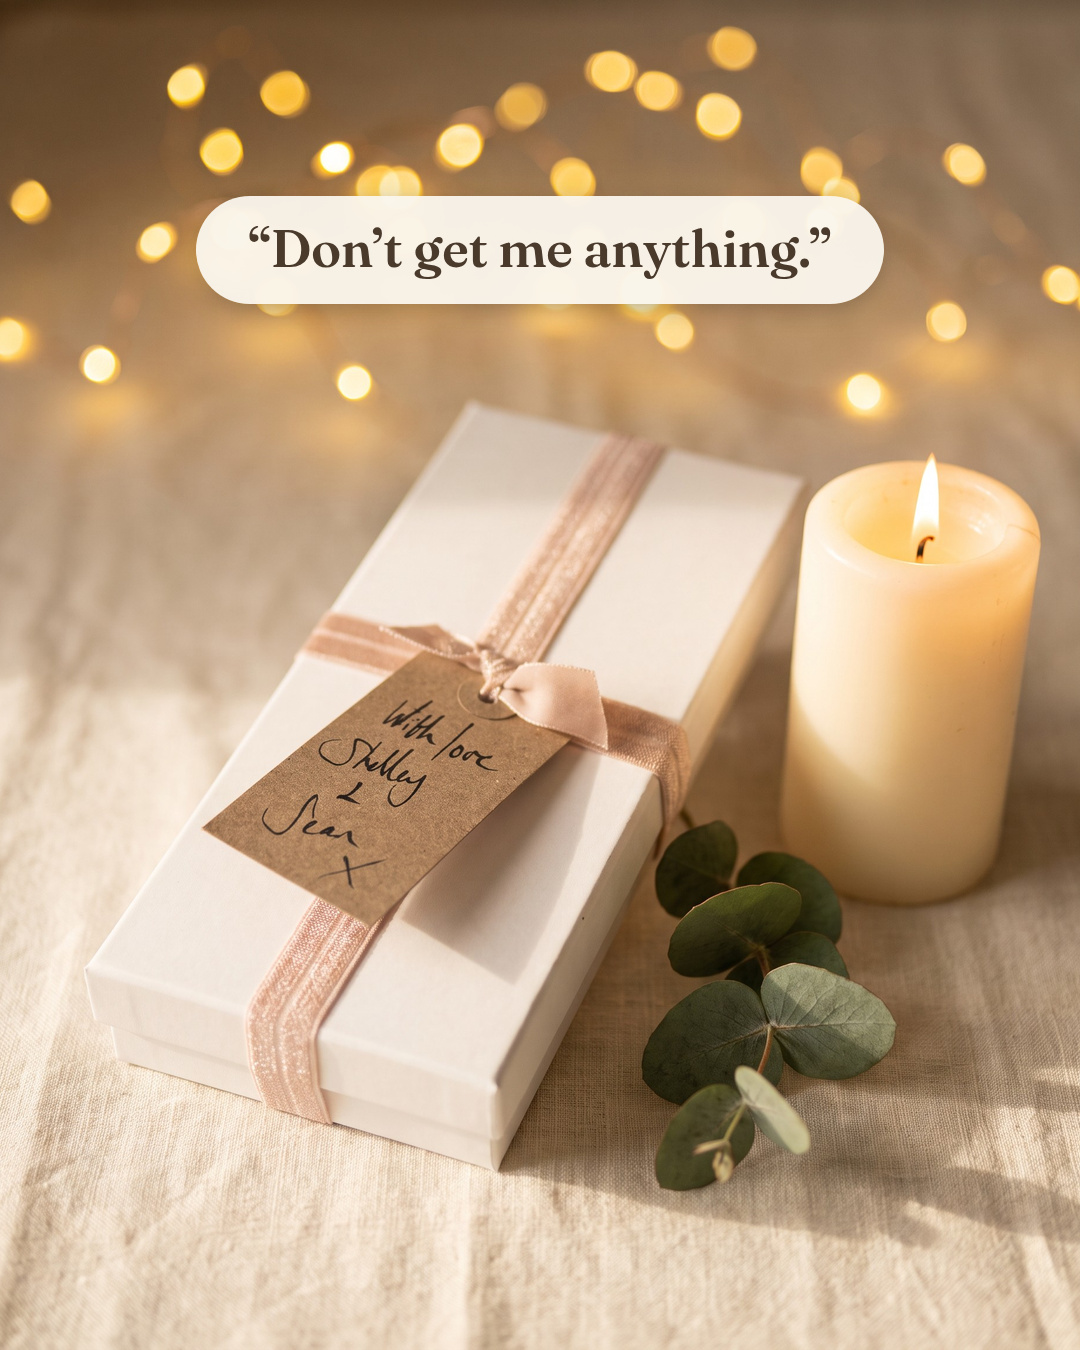
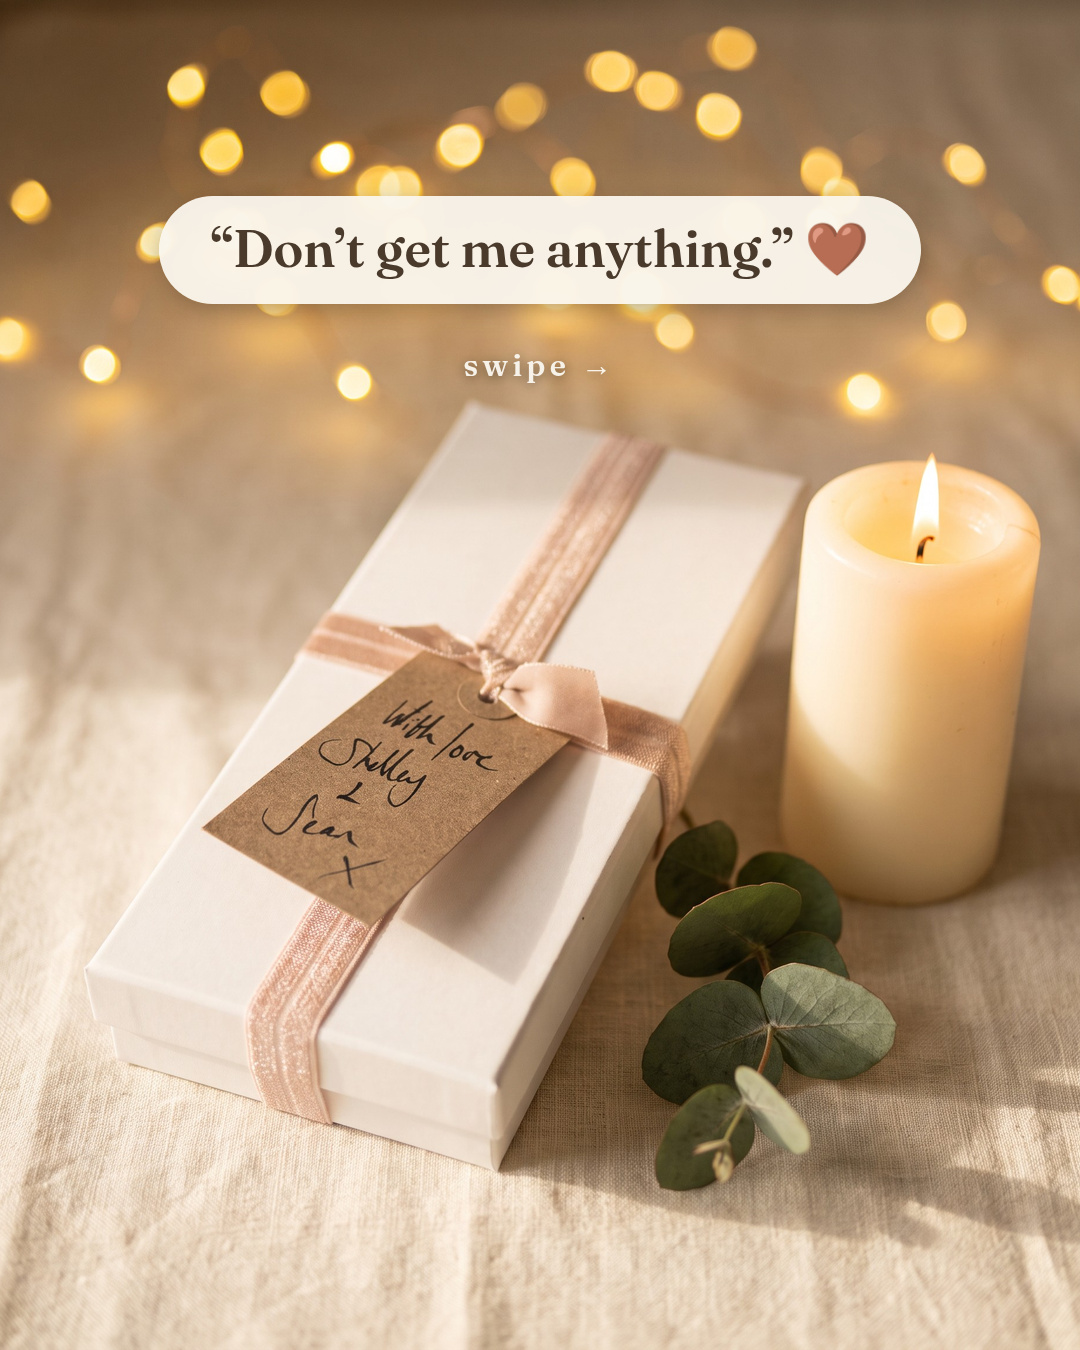
Diffuser carousel: option A hooks, emoji, swipe cue
Max rejected the previous hooks as AI slop and picked option A. The old middle
beat was filler and the payoff never resolved who 'their' was; the new run
lands the joke on the turn instead: nobody means 'don't get me anything'.

Emoji chosen on palette, not on meaning. The gift emoji was tried first and its
red and primary yellow fought the cream-and-candlelight scene — it read as
cheap, the opposite of the brief. The white heart was rejected too, being
near-invisible on a cream pill. What shipped sits inside the photograph's own
colours: brown heart against the type, a eucalyptus sprig echoing the real one
lying in every frame, sparkles against the bokeh.

Noted in-source that Apple Color Emoji is licensed to Apple hardware and is not
on this machine, so these render in Noto. Symbol emoji were used precisely
because that is where the two sets barely diverge — faces are where a
substituted glyph looks obviously wrong to an iPhone audience.

Slide 3 drops to 46px so its pill stops running edge to edge, and slide 1 gains
a swipe cue, since the reveal is on slide 3 and a carousel that does not ask
for the swipe loses people on the first frame.

Claude-Session: https://claude.ai/code/session_011ctfZLWbP19LaC5pAkHDsM

Changed region(s): [[0.1528, 0.1244, 0.8556, 0.2489], [0.4278, 0.2489, 0.5194, 0.28]]

diff --git a/projects/diffuser/reveal-carousel/carousel-4x5/build-carousel.py b/projects/diffuser/reveal-carousel/carousel-4x5/build-carousel.py
@@ -1,14 +1,16 @@
-"""Diffuser reveal — a proper Instagram carousel.
+"""Diffuser carousel v2 — option A, with emoji and a swipe cue.
 
-Three slides at 1080x1350 (4:5, the tallest ratio the feed allows, so it takes
-the most screen). The swipe is the reveal: closed box -> opened -> the bottle
-standing. Match Law, bought without a video budget.
+Max picked A and asked for iOS emoji so it reads like a proper artist made it.
 
-The hook treatment is Max's own pick from a five-way comparison: a cream pill
-in Fraunces, which is also exactly the shape Instagram's own text tool makes,
-so it reads as native rather than as a designer's overlay.
+Apple Color Emoji is licensed to Apple hardware and is not on this machine, so
+anything burnt in here renders in Noto (Google's set). Faces are where the two
+sets diverge most — a Noto smirk looks obviously wrong to an iPhone audience —
+so this uses SYMBOL emoji only (gift, white heart, sparkles), where the two
+sets are near-identical. The white heart also happens to be the exact cream of
+the pill, which is luck worth taking.
 
-Zero credits. The photography already exists.
+Also added: a swipe cue on slide 1. A carousel that does not tell you to swipe
+loses people on the first frame, and the reveal is on slide 3.
 """
 import base64
 import os
@@ -23,22 +25,27 @@ FONT = ("/home/user/daisy-maison-os/projects/diffuser/reel-pipeline/fonts/"
         "Fraunces-600.woff2")
 CHROME = "/opt/pw-browsers/chromium-1194/chrome-linux/chrome"
 
-W, H = 1080, 1350          # 4:5
-PILL_TOP = 196             # 14.5% down — over the bokeh on all three frames,
-                           # clear of Instagram's header and well above the product
+W, H = 1080, 1350
+PILL_TOP = 196
 FONT_PX = 52
 
+# Emoji chosen on PALETTE, not on meaning alone. The gift emoji was tried first
+# and its red and primary yellow fought the cream-and-candlelight scene badly —
+# it read as cheap, which is the exact opposite of the brief. These three all
+# sit inside the photograph's own colours: brown heart to the pill's #4A3A2C
+# type, eucalyptus to the real sprig lying in every shot, sparkles to the bokeh.
+# The white heart was rejected too: white on a cream pill is near-invisible.
 SLIDES = [
-    ("01-closed-box.jpg",      "&ldquo;Don&rsquo;t get me anything.&rdquo;"),
-    ("02-open-with-straw.jpg", "They always mean it."),
-    ("03-bottle-standing.jpg", "Fine. Their name on it, then."),
+    ("01-closed-box.jpg",
+     "&ldquo;Don&rsquo;t get me anything.&rdquo; \U0001F90E", True, 52),
+    ("02-open-with-straw.jpg",
+     "Nobody means that. \U0001F33F", False, 52),
+    ("03-bottle-standing.jpg",
+     "Especially not with their name on it. ✨", False, 46),
 ]
 
 
 def fit(path):
-    """Scale to cover 1080x1350 and centre-crop. The source is 1856x2304
-    (0.8056) against a 4:5 target (0.8000), so this trims ~4px a side and
-    nothing in frame is lost."""
     im = Image.open(path).convert("RGB")
     s = max(W / im.width, H / im.height)
     im = im.resize((round(im.width * s), round(im.height * s)), Image.LANCZOS)
@@ -47,9 +54,11 @@ def fit(path):
     return im.crop((x, y, x + W, y + H))
 
 
-def pill(text):
-    """Render the cream pill as a transparent overlay."""
+def overlay(text, swipe, size):
     b64 = base64.b64encode(open(FONT, "rb").read()).decode()
+    # Emoji sit a touch high and heavy next to Fraunces at this size; nudge them
+    # down and shrink slightly so the line's optical baseline stays level.
+    swipe_el = ("<div class='swipe'>swipe →</div>" if swipe else "")
     html = f"""<!doctype html><meta charset=utf8><style>
 @font-face{{font-family:'Fr';src:url(data:font/woff2;base64,{b64}) format('woff2');
   font-weight:600;font-display:block}}
@@ -58,37 +67,39 @@ html,body{{width:{W}px;height:{H}px;background:transparent}}
 .row{{position:absolute;top:{PILL_TOP}px;left:0;width:{W}px;
   display:flex;justify-content:center}}
 .pill{{
-  font-family:'Fr',Georgia,serif;font-weight:600;font-size:{FONT_PX}px;
+  font-family:'Fr',Georgia,serif;font-weight:600;font-size:{size}px;
   line-height:1;color:#4A3A2C;white-space:nowrap;
   background:rgba(250,246,238,.94);border-radius:999px;
   padding:26px 52px 30px;
   box-shadow:0 6px 22px rgba(30,25,20,.28);
+  font-variant-emoji:emoji;
+}}
+.swipe{{
+  position:absolute;top:{PILL_TOP + 150}px;left:0;width:{W}px;text-align:center;
+  font-family:'Fr',Georgia,serif;font-weight:600;font-size:31px;
+  letter-spacing:.14em;color:rgba(250,246,238,.96);
+  text-shadow:0 2px 12px rgba(30,22,14,.55);
 }}</style>
-<div class="row"><div class="pill">{text}</div></div>"""
+<div class="row"><div class="pill">{text}</div></div>{swipe_el}"""
     with tempfile.TemporaryDirectory() as td:
         hp = os.path.join(td, "p.html"); op = os.path.join(td, "p.png")
-        open(hp, "w").write(html)
+        open(hp, "w", encoding="utf-8").write(html)
         subprocess.run(
             [CHROME, "--headless=new", "--no-sandbox", "--disable-gpu",
              "--hide-scrollbars", "--default-background-color=00000000",
              "--force-device-scale-factor=1",
-             # the usable viewport comes back ~87px shorter than the window,
-             # so ask for slack and crop it off
              f"--window-size={W},{H + 260}", f"--screenshot={op}", "file://" + hp],
             check=True, capture_output=True)
         return Image.open(op).convert("RGBA").crop((0, 0, W, H))
 
 
 def main():
-    outs = []
-    for i, (fn, text) in enumerate(SLIDES, 1):
+    for i, (fn, text, swipe, size) in enumerate(SLIDES, 1):
         base = fit(os.path.join(SRC, fn)).convert("RGBA")
-        base.alpha_composite(pill(text))
-        out = os.path.join(HERE, "DM-diffuser-carousel-%d.jpg" % i)
+        base.alpha_composite(overlay(text, swipe, size))
+        out = os.path.join(HERE, "v2-%d.jpg" % i)
         base.convert("RGB").save(out, quality=95, subsampling=0)
-        outs.append(out)
         print("wrote", out)
-    return outs
 
 
 if __name__ == "__main__":
